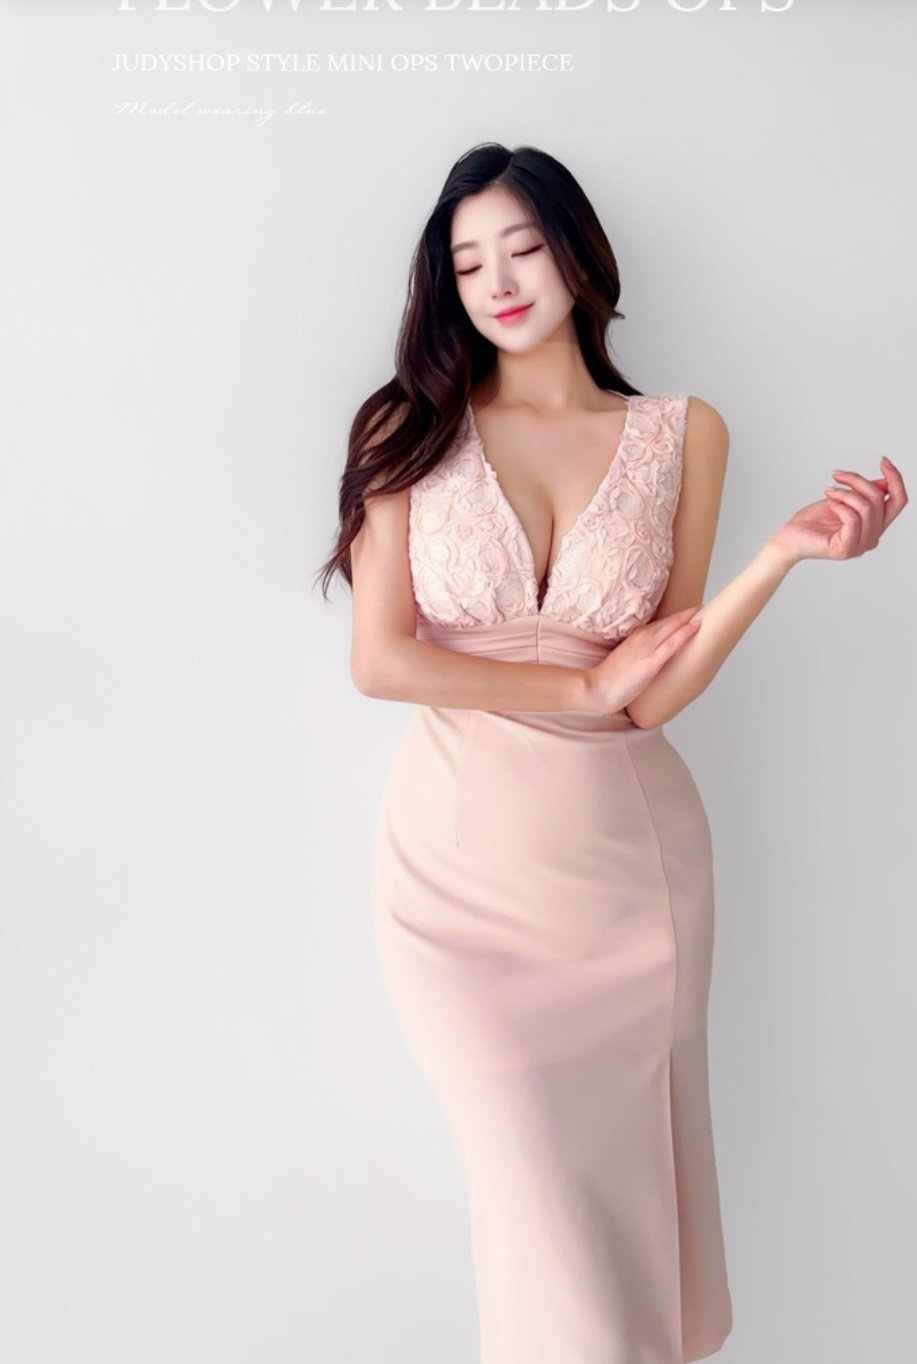
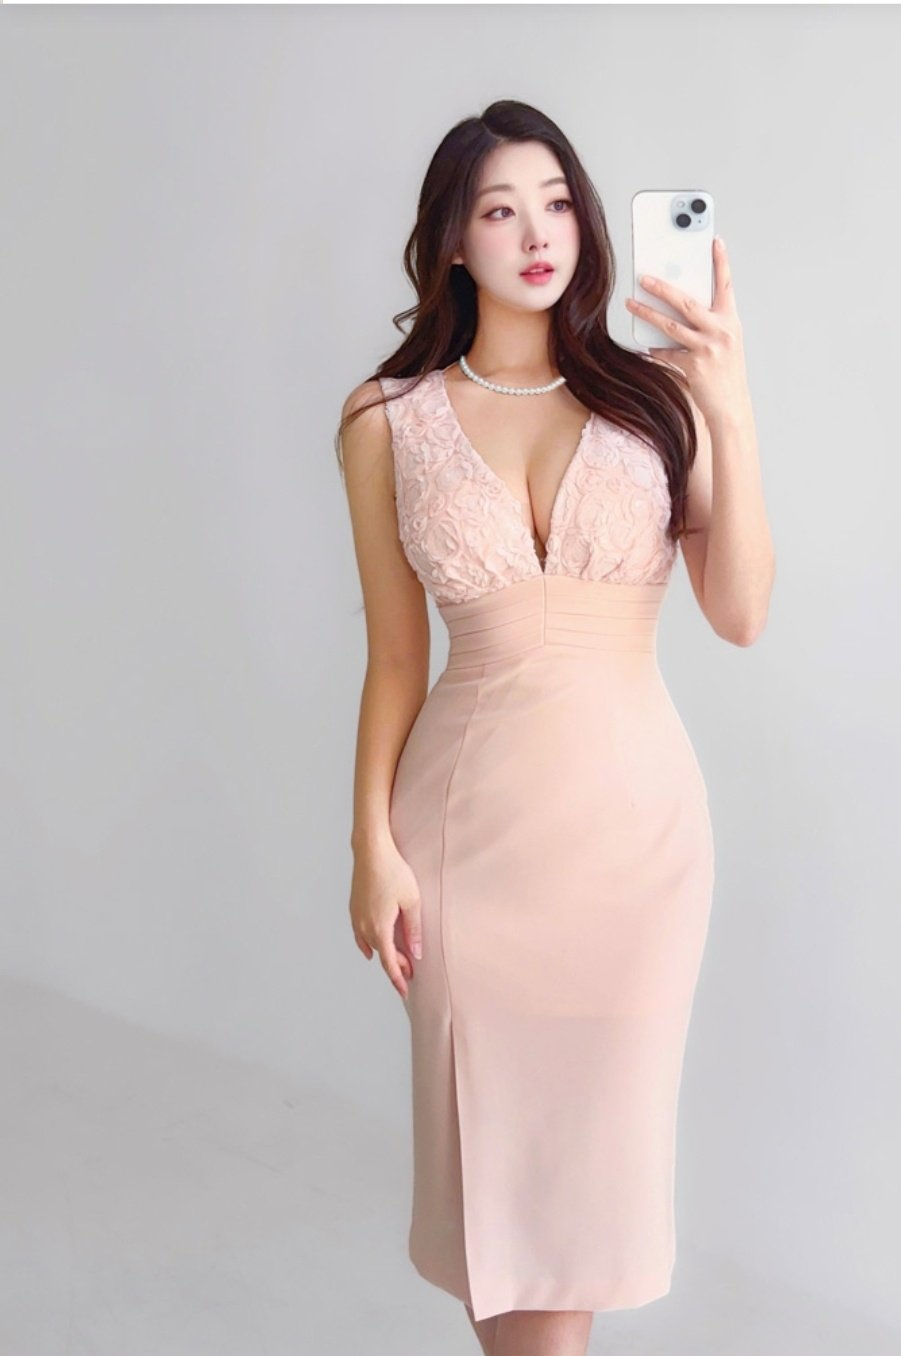
update

diff --git a/index.html b/index.html
@@ -5,7 +5,7 @@
   <meta name="viewport" content="width=device-width, initial-scale=1" />
   <title>NICE SHOWROOM</title>
   <meta name="description" content="NICE 쇼룸. 파티룩, 무대의상, 클럽룩을 사진 기준으로 편하게 고르고 상품코드로 재고와 사이즈를 빠르게 확인하세요." />
-  <link rel="stylesheet" href="style.css?v=match103" />
+  <link rel="stylesheet" href="style.css?v=match104" />
 </head>
 <body>
   <header class="hero">
@@ -63,6 +63,6 @@
     </div>
   </div>
 
-  <script src="app.js?v=match103"></script>
+  <script src="app.js?v=match104"></script>
 </body>
 </html>

diff --git a/app.js b/app.js
@@ -14,7 +14,7 @@ const vipModal = $('#vipModal');
 const vipInput = $('#vipCode');
 const vipMessage = $('#vipMessage');
 
-const VERSION = 'match103';
+const VERSION = 'match104';
 const KAKAO_URL = 'http://qr.kakao.com/talk/aGDd1dyfDwbjsvFXshqsTJhGWWc-';
 const INSTA_URL = ['https://www.instagram.com', 'dongdaemun_helloapm_nice'].join('/') + '/';
 const BLOG_URL = 'https://blog.naver.com/dongdaemun_nice';
